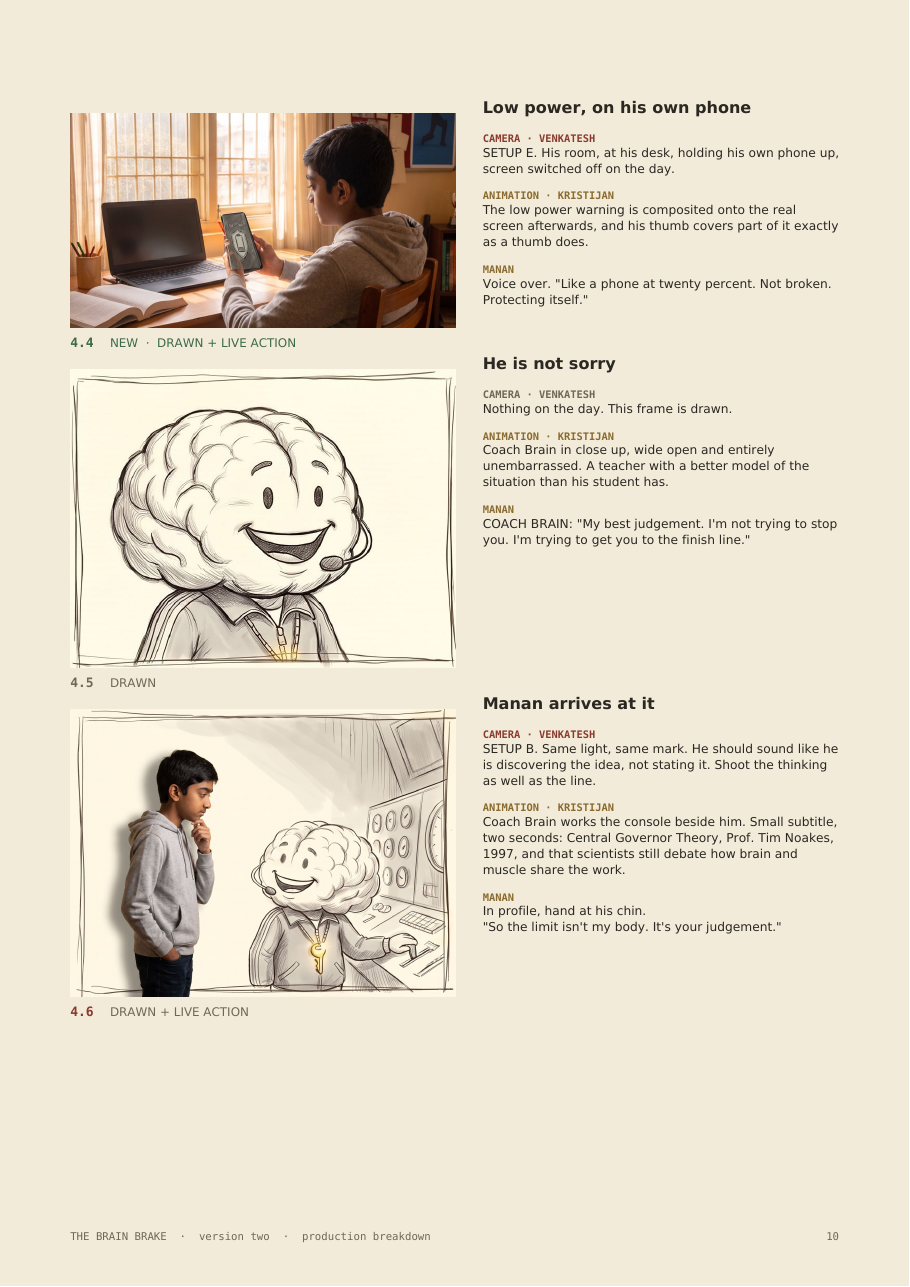
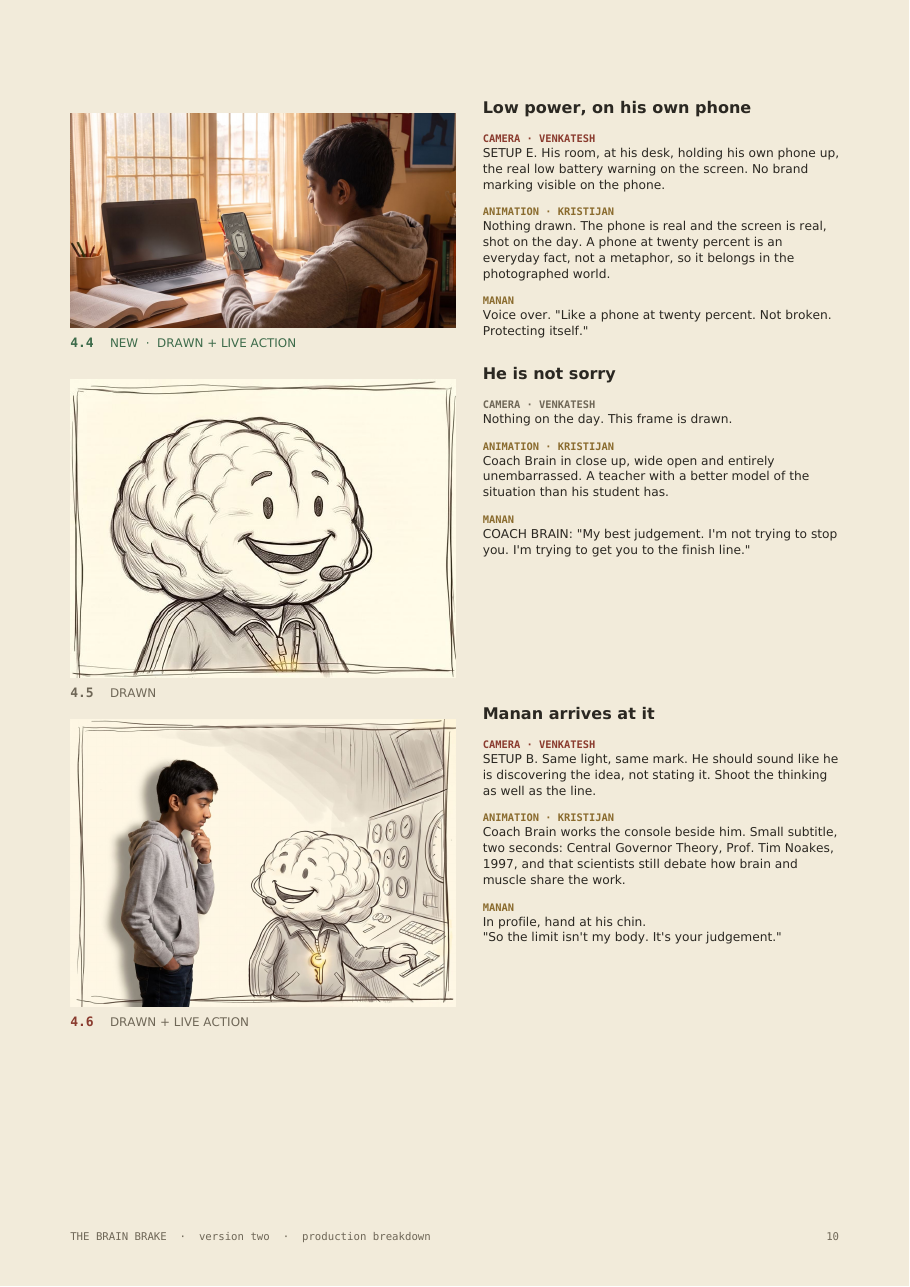
4.4 fully photographic: real phone, real low battery screen, no drawn overlay

diff --git a/19-brain-brake-v2.py b/19-brain-brake-v2.py
@@ -183,9 +183,10 @@ S[4] = ("THE GATEKEEPER","0:48 – 1:12",[
   "COACH BRAIN: \"Heart rate. Breath. Temperature. Water. Distance. I'm asking one question. Can "
   "we keep going safely?\""),
  (V+"/V7_4_4_phone.jpg","N","Low power, on his own phone",
-  "SETUP E. His room, at his desk, holding his own phone up, screen switched off on the day.",
-  "The low power warning is composited onto the real screen afterwards, and his thumb covers part "
-  "of it exactly as a thumb does.",
+  "SETUP E. His room, at his desk, holding his own phone up, the real low battery warning on the "
+  "screen. No brand marking visible on the phone.",
+  "Nothing drawn. The phone is real and the screen is real, shot on the day. A phone at twenty "
+  "percent is an everyday fact, not a metaphor, so it belongs in the photographed world.",
   "Voice over. \"Like a phone at twenty percent. Not broken. Protecting itself.\""),
  (P+"/S4_P5.jpg","D","He is not sorry","",
   "Coach Brain in close up, wide open and entirely unembarrassed. A teacher with a better model of "
